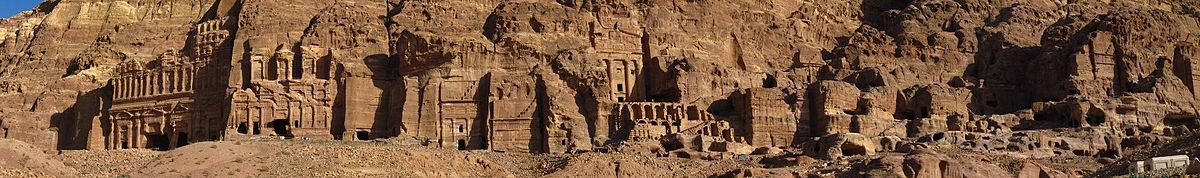
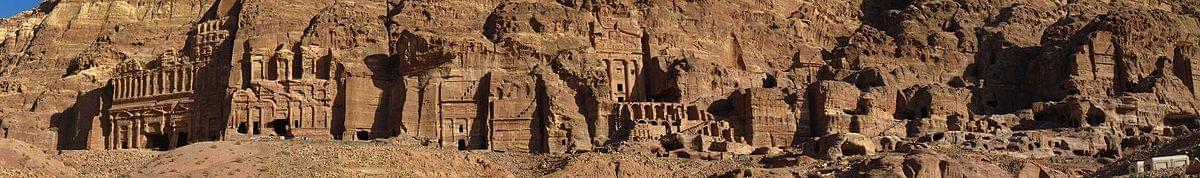
Optimize images.

diff --git a/gulpfile.js b/gulpfile.js
@@ -1,21 +1,32 @@
 var gulp = require('gulp');
 var autoprefixer = require('gulp-autoprefixer');
+var imageResize = require('gulp-image-resize');
+var image = require('gulp-image');
 
 // adds prefixes for CSS and move to CSS folder
 gulp.task('styles',function() {
-  gulp.src('workspace/css/styles.css')
+  gulp.src('src/css/styles.css')
     .pipe(autoprefixer())
     .pipe(gulp.dest('css'));
 });
 
 // Move normalize to CSS folder
 gulp.task('normalize',function() {
-  gulp.src('workspace/css/normalize.css')
+  gulp.src('src/css/normalize.css')
     .pipe(gulp.dest('css'));
+});
+
+// Optimize images
+gulp.task('image', function () {
+  gulp.src('src/images/*')
+    .pipe(image({
+      concurrent: 10
+    }))
+    .pipe(gulp.dest('images'));
 });
 
 // auto-watch for changes
 gulp.task('watch',function() {
-  gulp.watch('workspace/css/styles.css', ['styles']);
-  gulp.watch('workspace/css/normalize.css', ['normalize']);
+  gulp.watch('src/css/styles.css', ['styles']);
+  gulp.watch('src/css/normalize.css', ['normalize']);
 });
